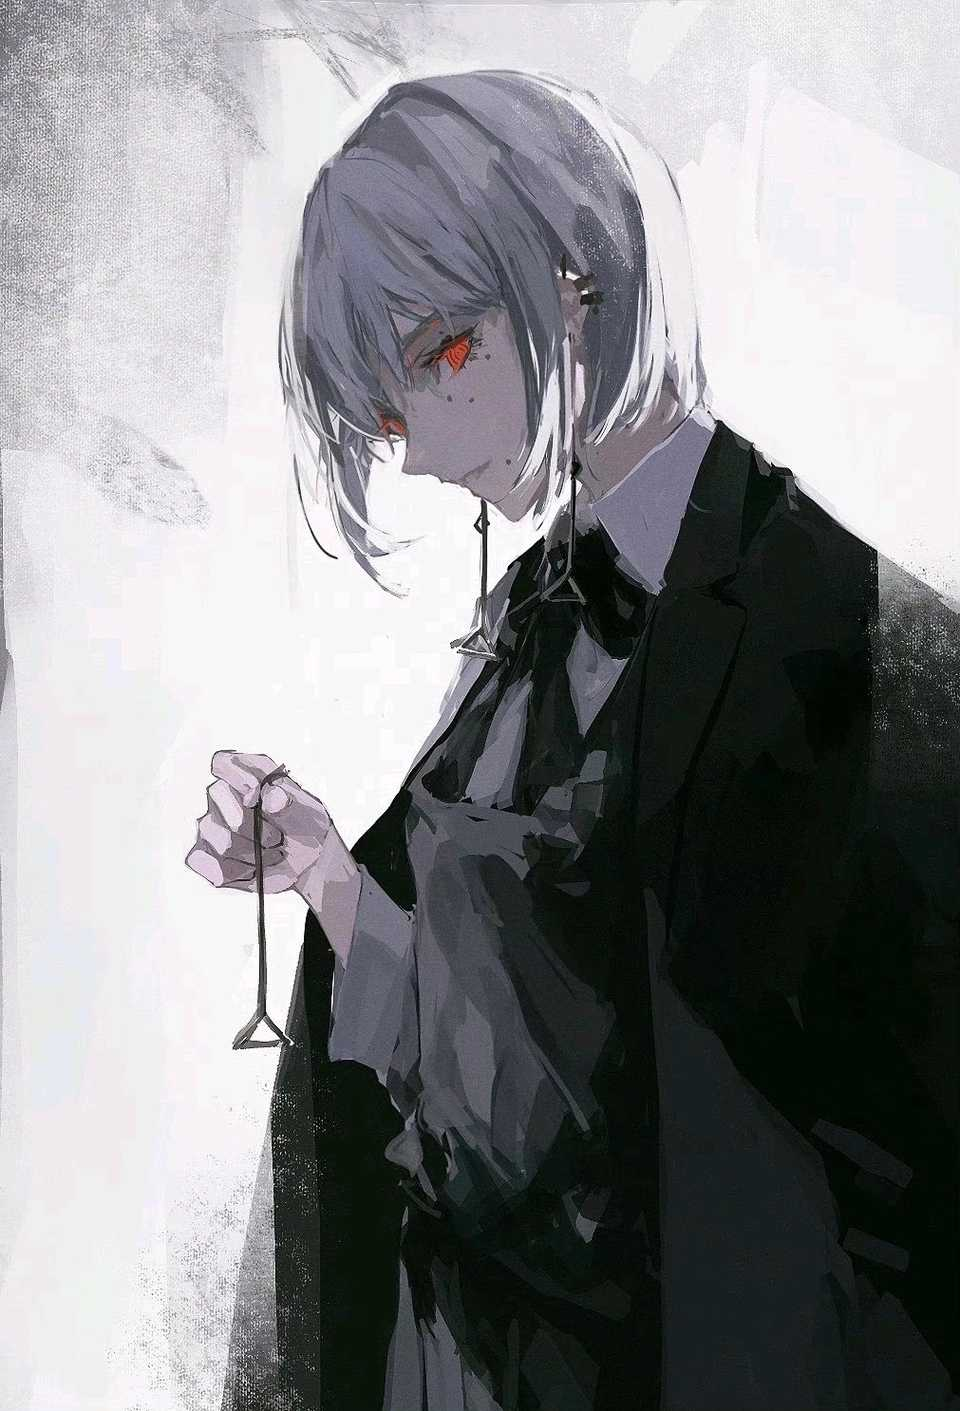
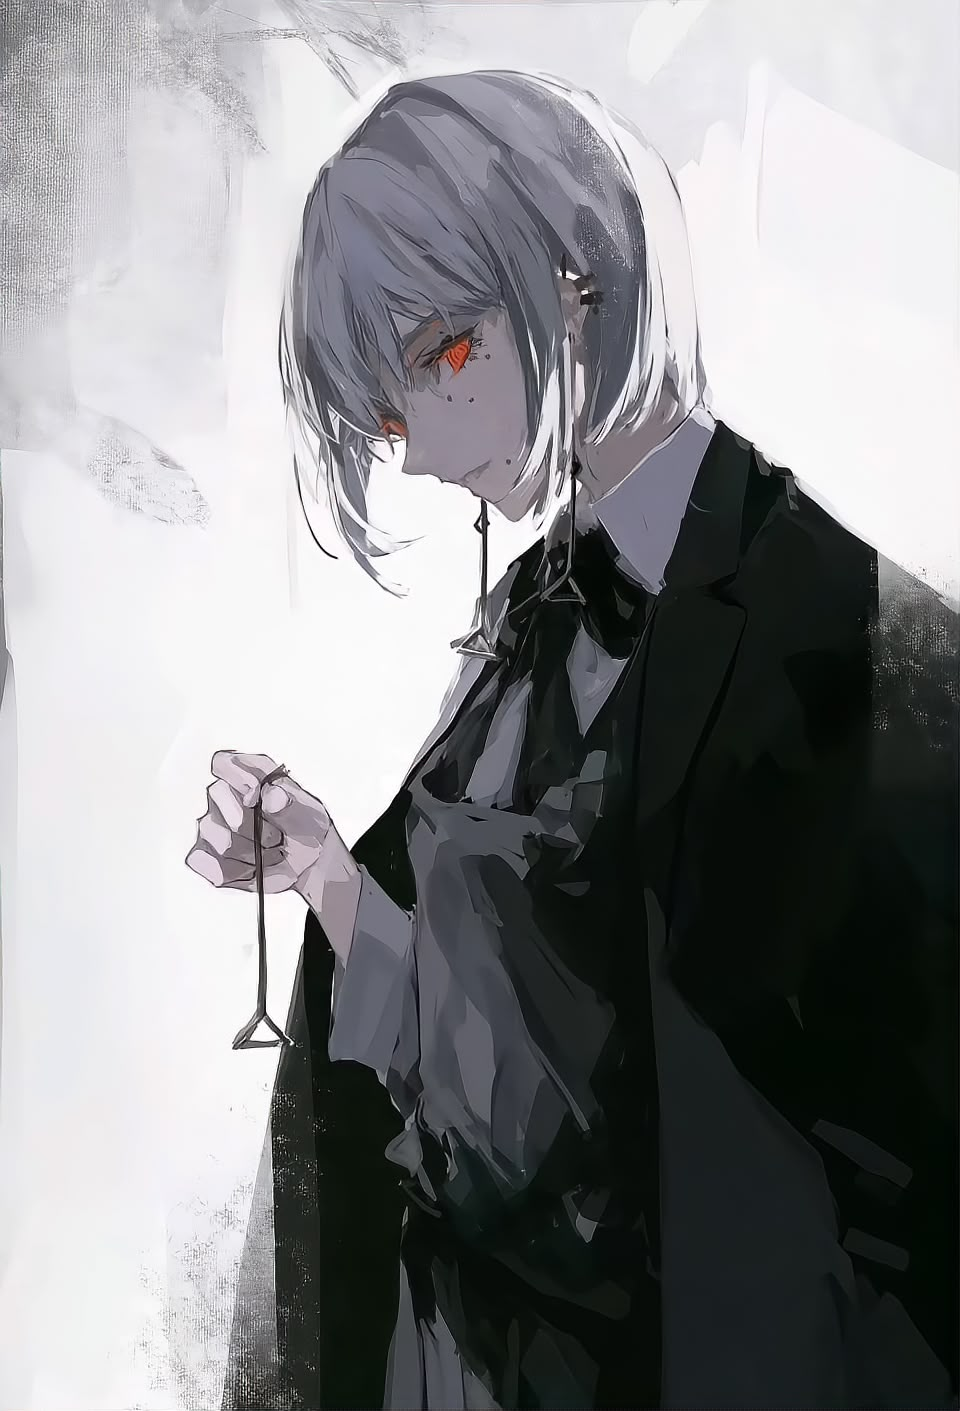
裁掉GIF头像水印；背景二移除（分辨率不足），背景三锐化增强；背景列表扩至4张

diff --git a/assets/js/data.js b/assets/js/data.js
@@ -121,8 +121,7 @@ window.SITE = {
   homeBg: "",
   homeBgs: [
     "assets/uploads/bg1.jpg", // 雨夜伞下
-    "assets/uploads/bg2.png", // boss & me
-    "assets/uploads/bg3.jpg", // 白发黑西装
+    "assets/uploads/bg3.jpg", // 白发黑西装（已锐化增强）
     "assets/uploads/bg.jpg",  // 夏日海滩
     "assets/uploads/bg5.jpg", // 月下花枝（最早那款背景）
   ],
